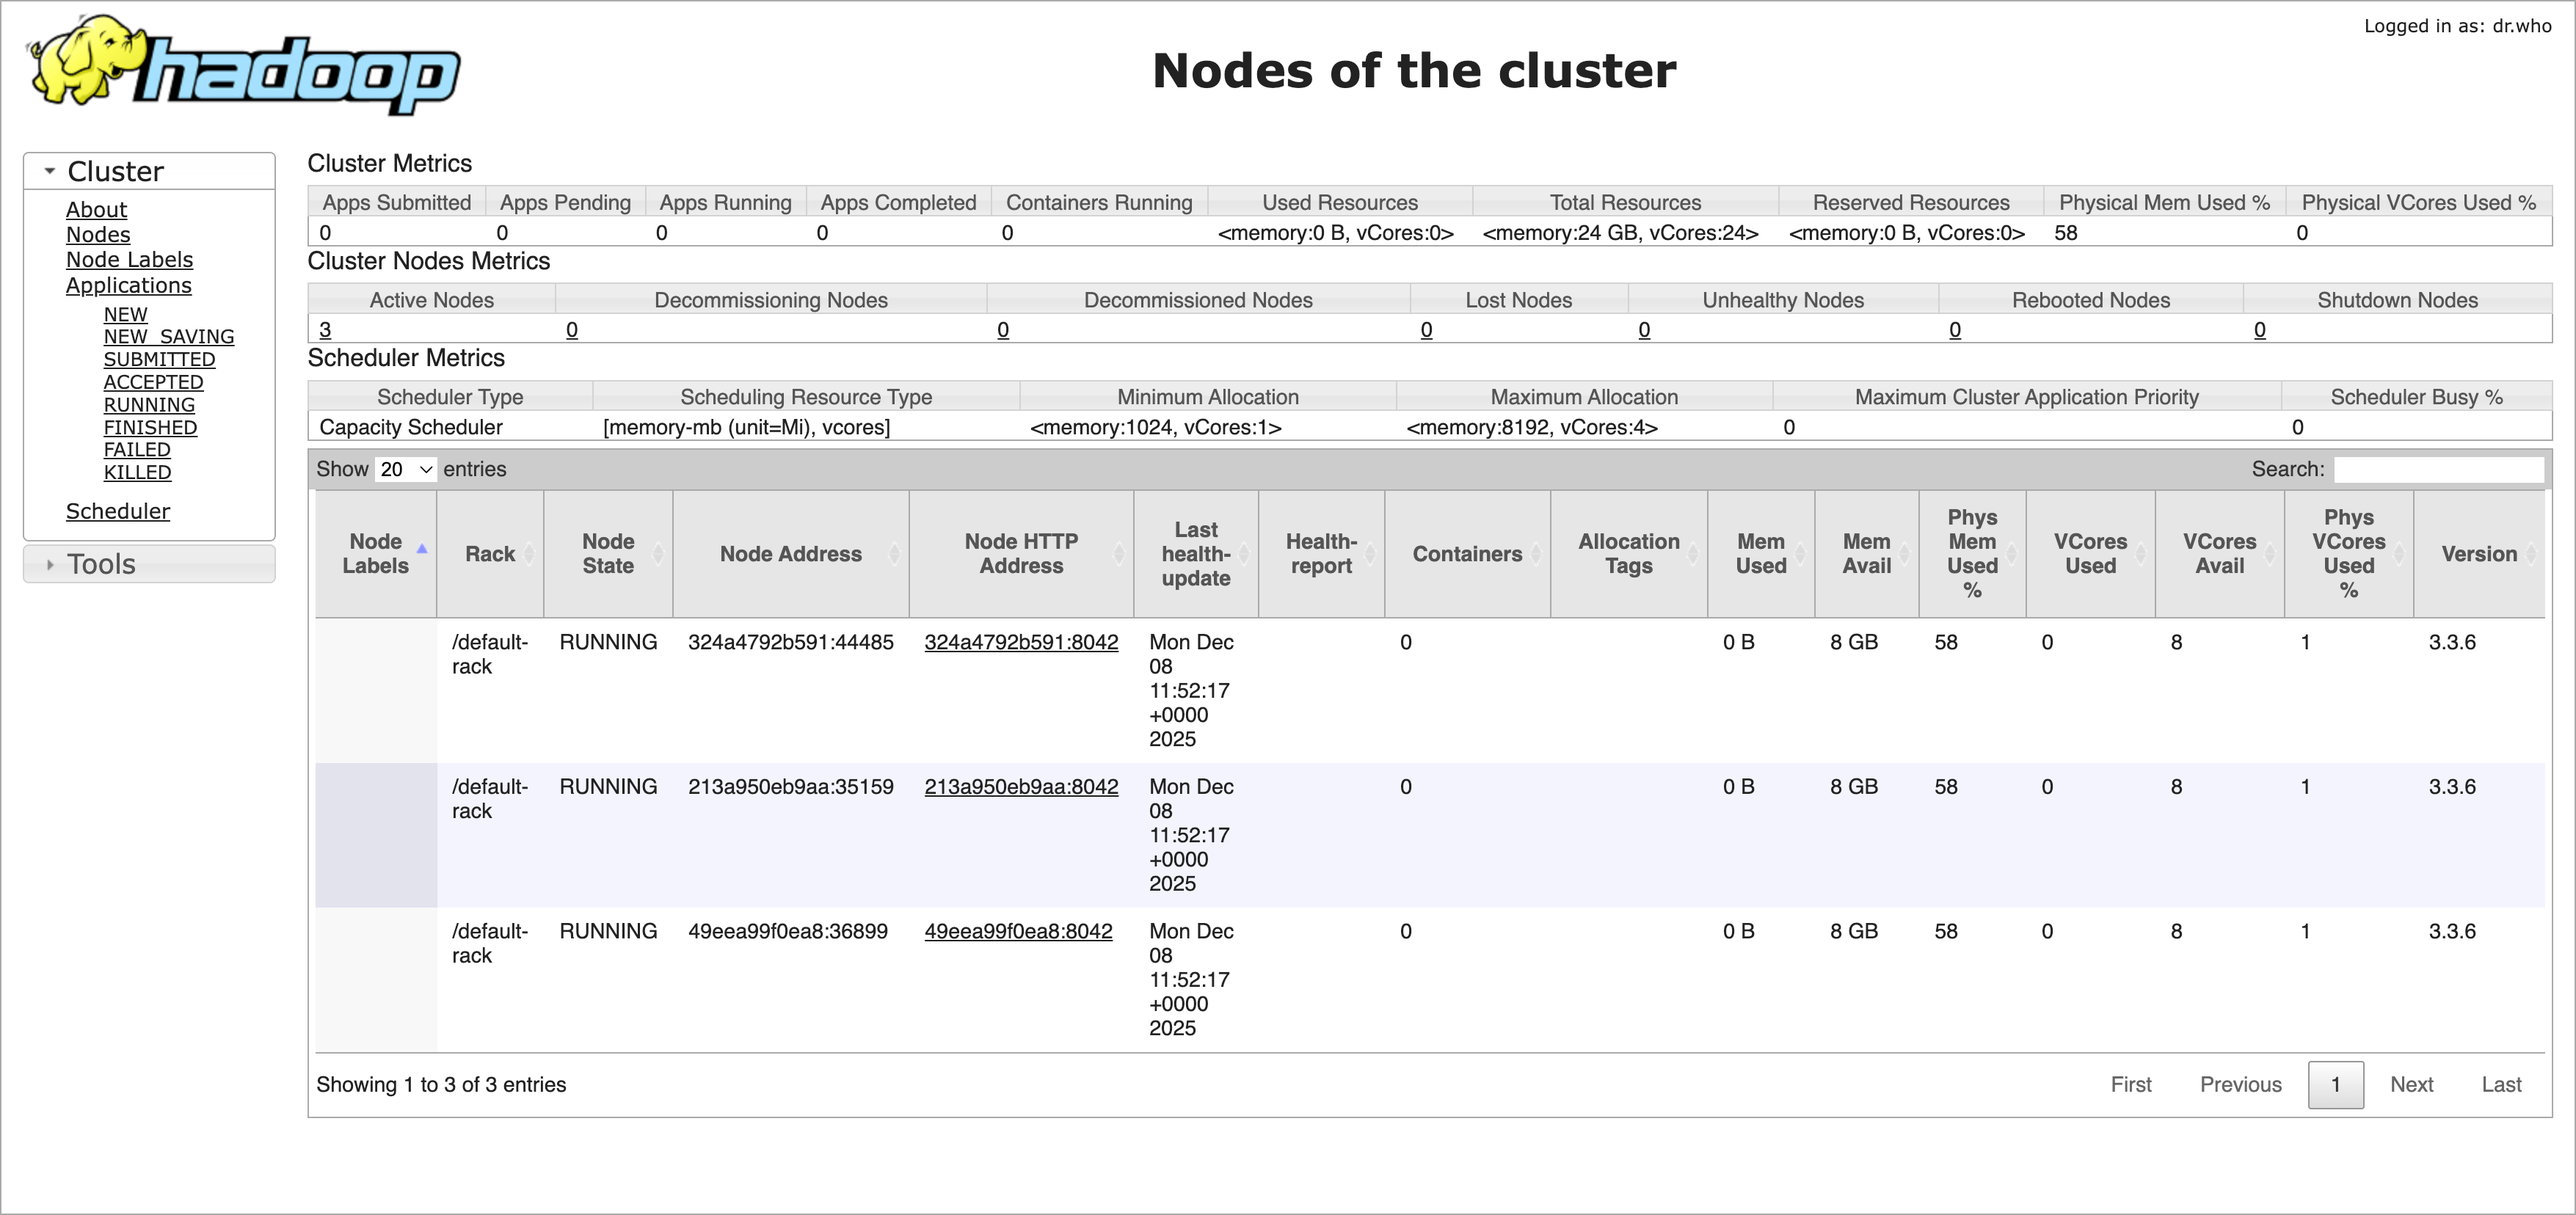
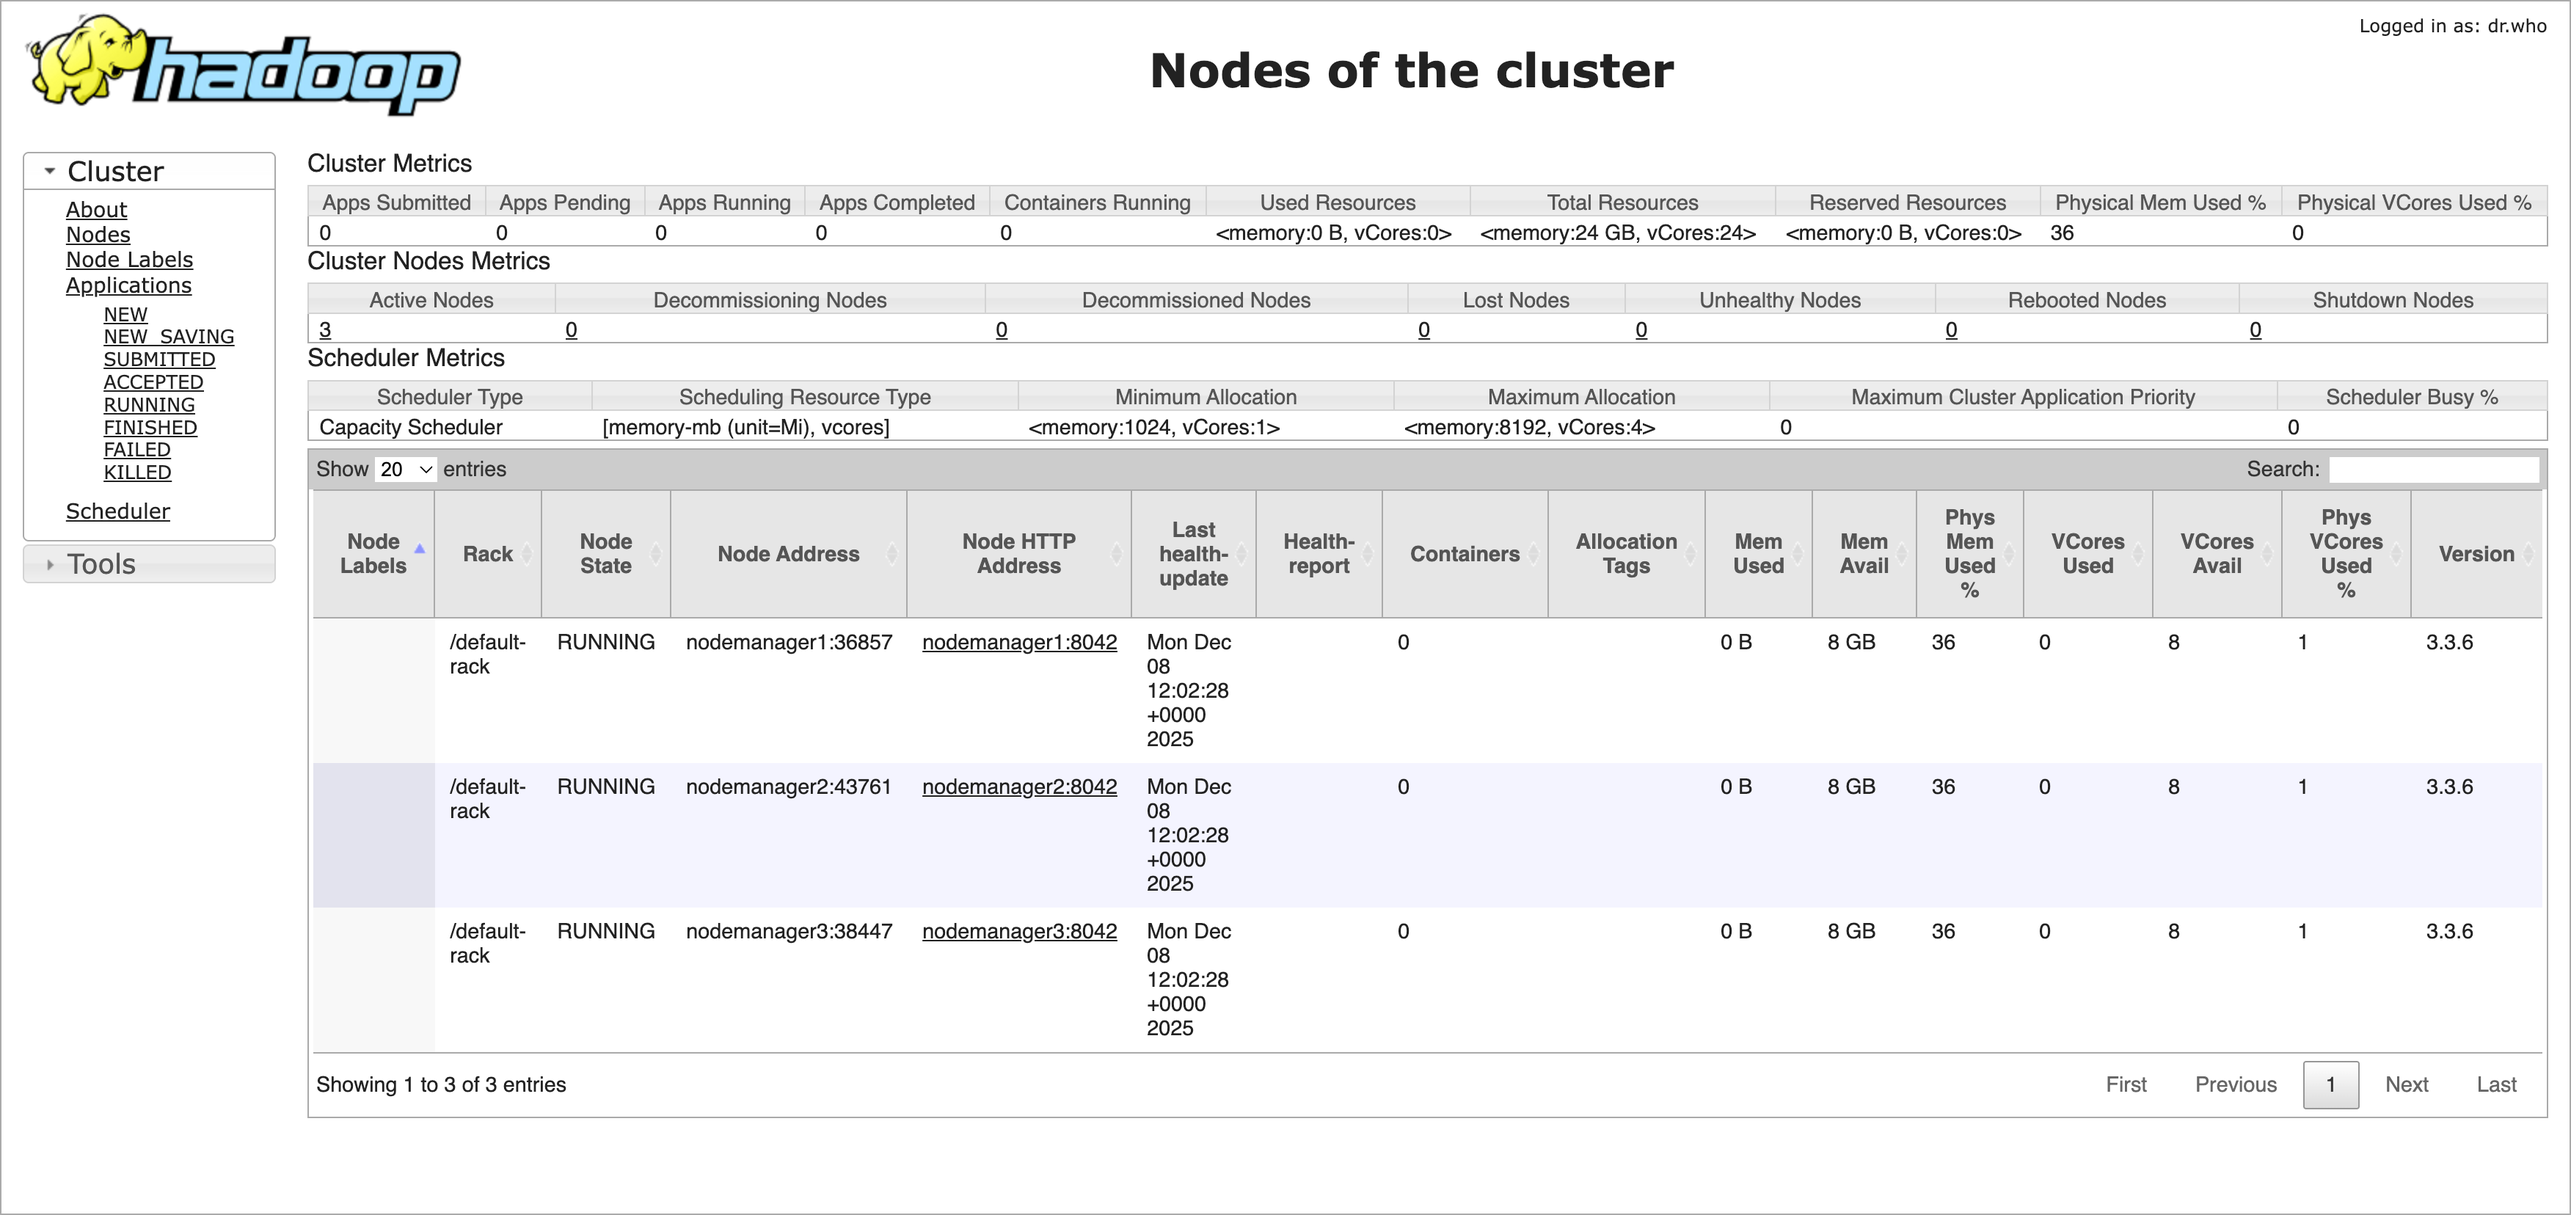
Enhance NodeManager configuration in docker-compose and README. Added hostname and port mapping for individual NodeManager access, updated documentation for monitoring capabilities, and included NodeManager Web UI details in the setup guide.

diff --git a/README.md b/README.md
@@ -56,8 +56,8 @@ Project ini menyediakan setup lengkap untuk menjalankan **Apache Hadoop 3.3.6** 
 ✅ **Easy Setup** - Single command untuk deploy entire cluster
 ✅ **Persistent Storage** - Data tetap ada setelah container restart
 ✅ **Fault Tolerant** - 3-node replication untuk data safety
-✅ **Web Monitoring** - Built-in web UI untuk HDFS, YARN, dan individual DataNode
-✅ **Individual DataNode Access** - Monitor setiap DataNode secara terpisah via Web UI
+✅ **Web Monitoring** - Built-in web UI untuk NameNode, ResourceManager, DataNode, dan NodeManager
+✅ **Individual Node Access** - Monitor setiap DataNode dan NodeManager secara terpisah via Web UI
 ✅ **Production Ready** - Konfigurasi optimal untuk workload nyata
 ✅ **Well Documented** - Comprehensive docs dengan troubleshooting guide  
 
@@ -113,6 +113,9 @@ Add these lines:
 127.0.0.1 datanode1
 127.0.0.1 datanode2
 127.0.0.1 datanode3
+127.0.0.1 nodemanager1
+127.0.0.1 nodemanager2
+127.0.0.1 nodemanager3
 ```
 
 **6. Access Web UIs**
@@ -121,6 +124,9 @@ Add these lines:
 - **DataNode 1 UI**: http://localhost:9864
 - **DataNode 2 UI**: http://localhost:9865
 - **DataNode 3 UI**: http://localhost:9866
+- **NodeManager 1 UI**: http://localhost:8042
+- **NodeManager 2 UI**: http://localhost:8043
+- **NodeManager 3 UI**: http://localhost:8044
 
 ### 📸 Cluster Screenshots
 
@@ -278,7 +284,10 @@ namenode:
   - `datanode2` (container_name: datanode2, hostname: datanode2, port: 9865)
   - `datanode3` (container_name: datanode3, hostname: datanode3, port: 9866)
 - 1 ResourceManager (port 8088)
-- 3 NodeManagers
+- 3 NodeManagers with hostname and port mapping:
+  - `nodemanager1` (container_name: nodemanager1, hostname: nodemanager1, port: 8042)
+  - `nodemanager2` (container_name: nodemanager2, hostname: nodemanager2, port: 8043)
+  - `nodemanager3` (container_name: nodemanager3, hostname: nodemanager3, port: 8044)
 
 **config** - Hadoop parameters
 ```
@@ -289,11 +298,14 @@ HDFS-SITE.XML_dfs.datanode.use.datanode.hostname=false
 YARN-SITE.XML_yarn.resourcemanager.hostname=resourcemanager
 ```
 
-**/etc/hosts** - Hostname resolution (Required for DataNode Web UI)
+**/etc/hosts** - Hostname resolution (Required for DataNode & NodeManager Web UI)
 ```
 127.0.0.1 datanode1
 127.0.0.1 datanode2
 127.0.0.1 datanode3
+127.0.0.1 nodemanager1
+127.0.0.1 nodemanager2
+127.0.0.1 nodemanager3
 ```
 
 **.env** - Environment variables
@@ -336,6 +348,22 @@ COMPOSE_PROJECT_NAME=hadoop
 - Node status
 - Scheduler info
 
+**NodeManager Web UIs** (YARN resource monitoring)
+- **NodeManager 1** - http://localhost:8042
+  - Container information
+  - Resource allocation
+  - Application logs
+- **NodeManager 2** - http://localhost:8043
+  - Container information
+  - Resource allocation
+  - Application logs
+- **NodeManager 3** - http://localhost:8044
+  - Container information
+  - Resource allocation
+  - Application logs
+
+> **Note**: NodeManager Web UIs require hostname configuration in `/etc/hosts` as described in Quick Start section.
+
 ### CLI Monitoring
 
 ```bash
@@ -358,6 +386,11 @@ docker-compose exec resourcemanager yarn application -list
 docker logs datanode1
 docker logs datanode2
 docker logs datanode3
+
+# Individual NodeManager logs
+docker logs nodemanager1
+docker logs nodemanager2
+docker logs nodemanager3
 ```
 
 ---
@@ -532,8 +565,11 @@ If you find this project useful, please consider giving it a ⭐!
 - ✅ Added DataNode hostname configuration (datanode1, datanode2, datanode3)
 - ✅ Enabled individual DataNode Web UI access
 - ✅ Configured port mapping for DataNode monitoring (9864, 9865, 9866)
-- ✅ Added `/etc/hosts` configuration guide
-- ✅ Enhanced monitoring capabilities with per-node metrics
+- ✅ Added NodeManager hostname configuration (nodemanager1, nodemanager2, nodemanager3)
+- ✅ Enabled individual NodeManager Web UI access
+- ✅ Configured port mapping for NodeManager monitoring (8042, 8043, 8044)
+- ✅ Added `/etc/hosts` configuration guide for both HDFS and YARN layers
+- ✅ Enhanced monitoring capabilities with per-node metrics for DataNode and NodeManager
 
 **v1.0.0** (2025-12-01)
 - ✅ Initial 3-node cluster setup
